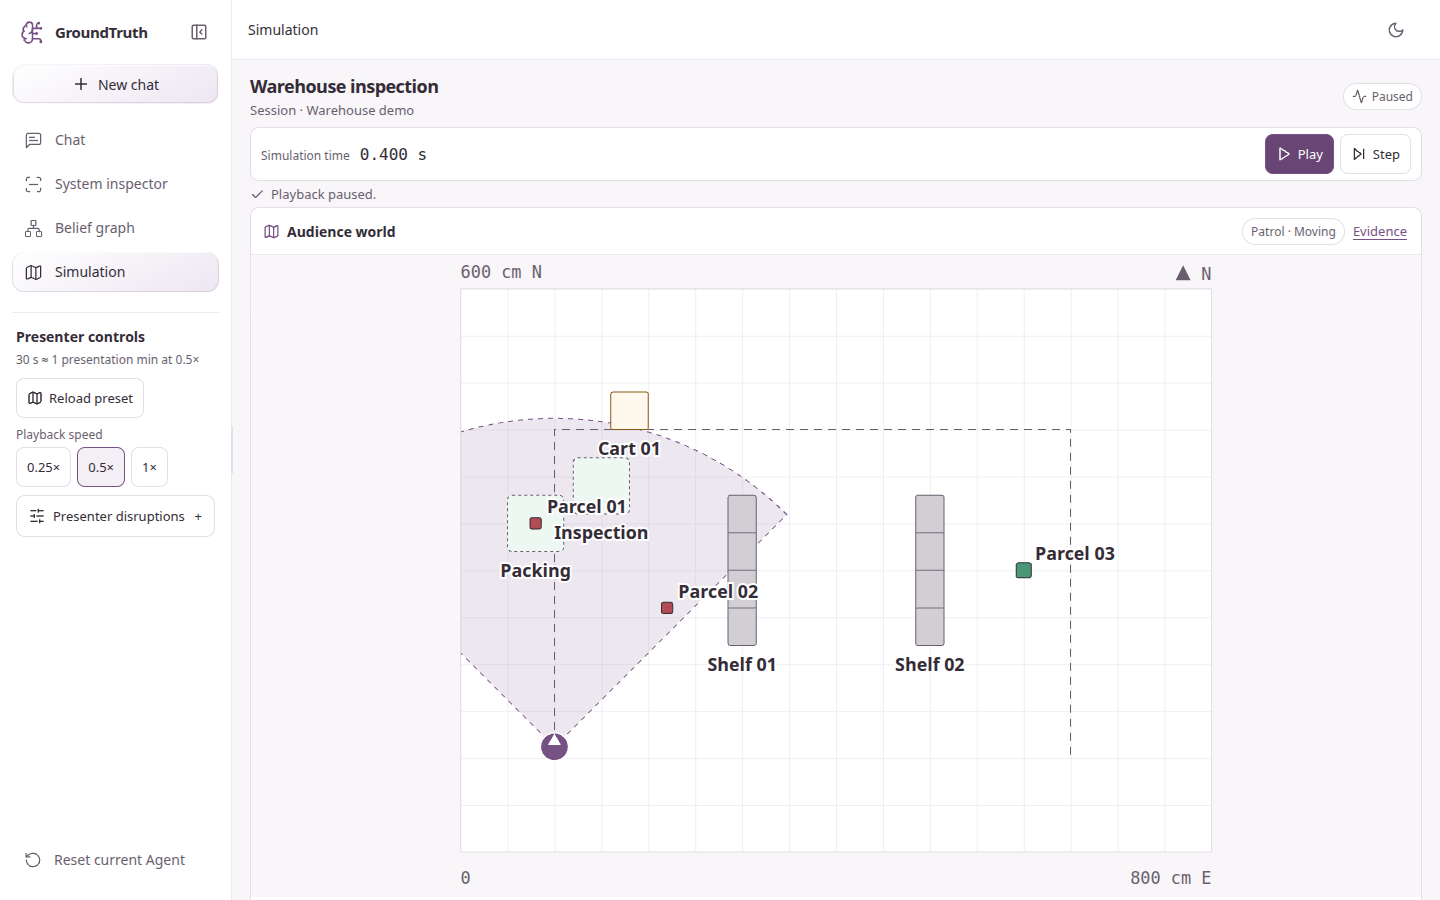
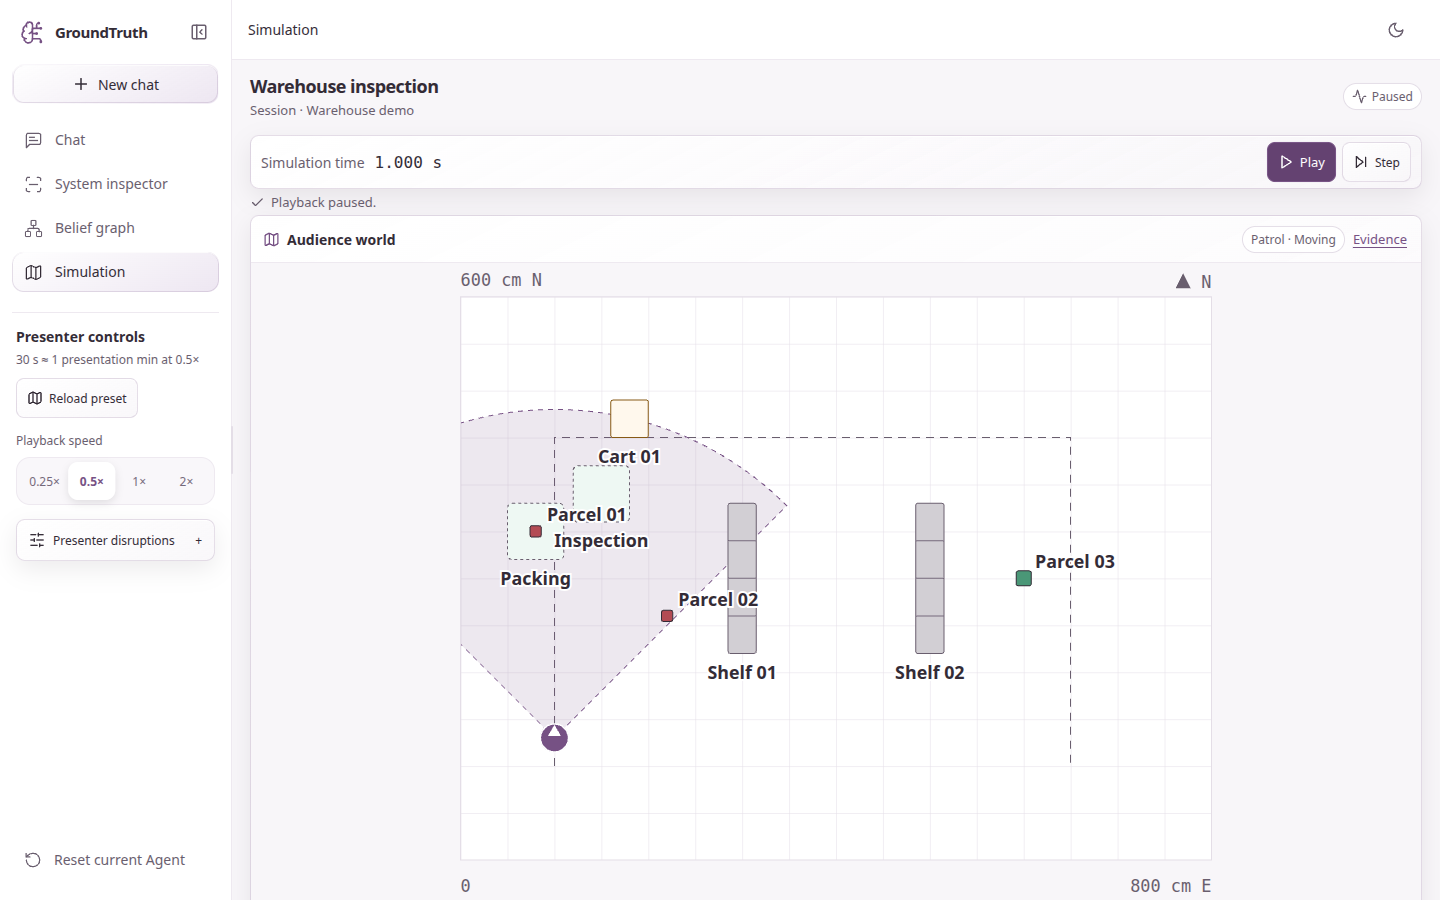
Add 2x playback and glass simulation controls

diff --git a/frontend/src/simulation-workspace.css b/frontend/src/simulation-workspace.css
@@ -180,3 +180,69 @@
   }
   .sim-disrupt option::checkmark { color: var(--accent); }
 }
+
+/* Match the moving glass selection used by the belief graph. */
+.sim-heading { margin-bottom: 16px; }
+.sim-clock { font-size: .875rem; }
+.sim-rate-field { width: 100%; gap: 8px; font-size: .75rem; }
+.sim-presenter { gap: 14px; }
+.sim-rates {
+  position: relative;
+  isolation: isolate;
+  display: grid;
+  grid-template-columns: repeat(4, minmax(0, 1fr));
+  width: 100%;
+  gap: 0;
+  padding: 4px;
+  border: 1px solid var(--line);
+  border-radius: 14px;
+  background: color-mix(in srgb, var(--surface-raised) 85%, transparent);
+  backdrop-filter: blur(16px) saturate(120%);
+  -webkit-backdrop-filter: blur(16px) saturate(120%);
+}
+.sim-rates::before {
+  position: absolute;
+  z-index: -1;
+  inset: 4px auto 4px 4px;
+  width: calc((100% - 8px) / 4);
+  border-radius: 10px;
+  background: linear-gradient(165deg, color-mix(in srgb, var(--surface) 85%, white), var(--surface));
+  box-shadow: inset 0 1px 0 rgb(255 255 255 / 55%), 0 3px 8px rgb(0 0 0 / 10%);
+  transform: translateX(calc(var(--selected-rate) * 100%));
+  transition: transform 250ms cubic-bezier(.22, 1, .36, 1);
+  content: "";
+}
+.sim-rates .sim-button, .sim-rates .sim-button[aria-pressed="true"] {
+  min-width: 0;
+  min-height: 38px;
+  padding: 6px 2px;
+  border: 0;
+  border-radius: 10px;
+  background: transparent;
+  color: var(--quiet);
+  font-size: .75rem;
+}
+.sim-rates .sim-button[aria-pressed="true"] { color: var(--accent); font-weight: 600; }
+:root[data-theme="dark"] .sim-rates { border-color: rgb(255 255 255 / 10%); background: rgb(255 255 255 / 3%); }
+:root[data-theme="dark"] .sim-rates::before {
+  background: linear-gradient(165deg, rgb(255 255 255 / 14%), rgb(255 255 255 / 4%));
+  box-shadow: inset 0 1px 0 rgb(255 255 255 / 20%), inset 0 -1px 0 rgb(255 255 255 / 5%), 0 3px 8px rgb(0 0 0 / 16%);
+}
+.sim-toolbar, .sim-panel, .sim-disrupt, .sim-presenter-inline {
+  border-color: var(--glass-border);
+  background: var(--glass-surface);
+  backdrop-filter: blur(18px) saturate(115%);
+  -webkit-backdrop-filter: blur(18px) saturate(115%);
+  box-shadow: inset 0 1px 0 var(--glass-highlight), 0 8px 24px var(--glass-shadow);
+}
+.sim-presenter > .sim-button, .sim-disrupt summary, .sim-actions .sim-button:not(.primary) {
+  font-size: .75rem;
+}
+.sim-presenter > .sim-button, .sim-actions .sim-button:not(.primary) {
+  border-color: var(--glass-border);
+  background: var(--glass-surface);
+  box-shadow: inset 0 1px 0 var(--glass-highlight);
+}
+.sim-presenter > .sim-button:hover:not(:disabled),
+.sim-actions .sim-button:not(.primary):hover:not(:disabled) { background: var(--glass-selected); }
+@media (prefers-reduced-motion: reduce) { .sim-rates::before { transition: none; } }

diff --git a/frontend/src/SimulationWorkspace.tsx b/frontend/src/SimulationWorkspace.tsx
@@ -10,7 +10,7 @@ import { useSimulation } from "./useSimulation";
 import WarehouseMap, { warehouseLabel } from "./WarehouseMap";
 import "./simulation-workspace.css";
 
-const rates = [0.25, 0.5, 1] as const;
+const rates = [0.25, 0.5, 1, 2] as const;
 const patrolLabels = {
   moving: "Moving", turning: "Turning", blocked: "Blocked",
   waiting_for_sensor: "Waiting for sensor", complete: "Patrol complete", stalled: "Stalled",
@@ -211,7 +211,7 @@ export default function SimulationWorkspace({ sessionId, chatName, presenterTarg
     </button>
     <div className="sim-rate-field" role="group" aria-label="Playback speed">
       <span>Playback speed</span>
-      <div className="sim-rates">
+      <div className="sim-rates" style={{ "--selected-rate": rates.indexOf(state?.playback_rate ?? 0.5) } as React.CSSProperties}>
         {rates.map((rate) => <button type="button" key={rate} className="sim-button"
           aria-pressed={(state?.playback_rate ?? 0.5) === rate}
           onClick={() => control("set_rate", rate)} disabled={!canAdjust}>{rate}×</button>)}
@@ -225,13 +225,14 @@ export default function SimulationWorkspace({ sessionId, chatName, presenterTarg
     <div className="sim-content">
       <div className="sim-heading">
         <div><h2>Warehouse inspection</h2><p>Session · {chatName}</p></div>
-        <div className={`sim-chip ${live && active ? "success" : !live || state?.state === "error" ? "warn" : ""}`} role="status">
+        {!(live && state?.state === "completed") && <div className={`sim-chip ${live && active ? "success" : !live || state?.state === "error" ? "warn" : ""}`} role="status">
           {connection === "disconnected" ? <WifiOff size={15} /> : active && live ? <Play size={13} /> : <Activity size={15} />}{status}
-        </div>
+        </div>}
       </div>
       <div className="sim-toolbar">
         <div className="sim-clock">
           <span>Simulation time</span>
+          {state?.state === "completed" && <span role="status">Run finished · Reload preset to start again</span>}
           <strong>{state?.sim_time_ms == null ? "—" : simTime(state.sim_time_ms)}</strong>
         </div>
         {playStep}
@@ -243,7 +244,7 @@ export default function SimulationWorkspace({ sessionId, chatName, presenterTarg
           {presenter}
         </details>}
       <div className="sim-feedback" role="status">
-        {pending ? <span>{pending}</span> : notice && <span className={notice.error ? "sim-warning" : ""}>
+        {pending ? <span>{pending}</span> : notice && (state?.state !== "completed" || notice.error) && <span className={notice.error ? "sim-warning" : ""}>
           {notice.error ? <CircleAlert size={15} /> : <Check size={15} />}{notice.text}
         </span>}
       </div>

diff --git a/frontend/src/simulationTypes.ts b/frontend/src/simulationTypes.ts
@@ -217,7 +217,7 @@ export type SimulationConfig = {
   "step_ms"?: number;
   "sensor_interval_ms"?: number;
   "duration_ms"?: number;
-  "playback_rate"?: 0.25 | 0.5 | 1.0;
+  "playback_rate"?: 0.25 | 0.5 | 1.0 | 2.0;
   "camera_fov_deg"?: number;
   "camera_range_cm"?: number;
   "lidar_range_cm"?: number;
@@ -228,12 +228,12 @@ export type SimulationConfig = {
 
 export type SimulationControl = {
   "action": "play" | "pause" | "step" | "reset" | "set_rate";
-  "playback_rate"?: 0.25 | 0.5 | 1.0 | null;
+  "playback_rate"?: 0.25 | 0.5 | 1.0 | 2.0 | null;
 };
 
 export type SimulationControlRequest = {
   "action": "play" | "pause" | "step" | "reset" | "set_rate";
-  "playback_rate"?: 0.25 | 0.5 | 1.0 | null;
+  "playback_rate"?: 0.25 | 0.5 | 1.0 | 2.0 | null;
   "expected": SimulationRunIdentity;
 };
 
@@ -303,7 +303,7 @@ export type SimulationStateResponse = {
   "snapshot_sequence": number | null;
   "sim_time_ms": number | null;
   "epoch_utc": string | null;
-  "playback_rate": 0.25 | 0.5 | 1.0;
+  "playback_rate": 0.25 | 0.5 | 1.0 | 2.0;
   "state": "pending" | "paused" | "running" | "completed" | "error";
   "error": string | null;
   "persistence_error": string | null;
@@ -319,7 +319,7 @@ export type SimulationStatus = {
   "epoch_utc": string;
   "sim_time_ms": number;
   "state": "paused" | "running" | "completed";
-  "playback_rate"?: 0.25 | 0.5 | 1.0;
+  "playback_rate"?: 0.25 | 0.5 | 1.0 | 2.0;
 };
 
 export type SpatialContext = {

diff --git a/frontend/src/simulationFixtures.ts b/frontend/src/simulationFixtures.ts
@@ -1321,6 +1321,14 @@ export const validSimulationFixtures = {
       }
     },
     {
+      "action": "set_rate",
+      "playback_rate": 2.0,
+      "expected": {
+        "run_id": "00000000-0000-0000-0000-000000000001",
+        "generation": 1
+      }
+    },
+    {
       "action": "step",
       "expected": {
         "run_id": "00000000-0000-0000-0000-000000000001",

diff --git a/tests/unit/contracts/test_simulation.py b/tests/unit/contracts/test_simulation.py
@@ -61,7 +61,7 @@ def test_shared_invalid_examples_rejected(case):
         getattr(simulation, case["contract"]).model_validate(case["payload"])
 
 
-@pytest.mark.parametrize("value", [float("nan"), float("inf"), -float("inf"), True, "0.5", 0, 2])
+@pytest.mark.parametrize("value", [float("nan"), float("inf"), -float("inf"), True, "0.5", 0, 3])
 def test_rate_rejection_across_config_status_and_control(value):
     for model, payload in [
         (SimulationConfig, {}),
@@ -95,11 +95,11 @@ def test_invalid_configuration_boundaries(field, value):
 
 def test_pacing_does_not_change_simulation_defaults():
     base = SimulationConfig().model_dump(exclude={"playback_rate"})
-    for rate, seconds in [(0.25, 120), (0.5, 60), (1.0, 30)]:
+    for rate, seconds in [(0.25, 120), (0.5, 60), (1.0, 30), (2.0, 15)]:
         config = SimulationConfig(playback_rate=rate)
         assert config.model_dump(exclude={"playback_rate"}) == base
         assert config.duration_ms / rate / 1000 == seconds
-        assert config.step_ms / rate == {0.25: 400, 0.5: 200, 1.0: 100}[rate]
+        assert config.step_ms / rate == {0.25: 400, 0.5: 200, 1.0: 100, 2.0: 50}[rate]
 
 
 @pytest.mark.parametrize(

diff --git a/src/web/simulation_clock.py b/src/web/simulation_clock.py
@@ -14,7 +14,7 @@ class SimulationClock:
     """Accumulate simulation milliseconds without losing unprocessed ticks."""
 
     def __init__(self, *, step_ms: int, rate: float, now: Callable[[], float] = monotonic):
-        if step_ms <= 0 or isinstance(rate, bool) or rate not in (0.25, 0.5, 1.0):
+        if step_ms <= 0 or isinstance(rate, bool) or rate not in (0.25, 0.5, 1.0, 2.0):
             raise ValueError("invalid simulation step or playback rate")
         self.step_ms = step_ms
         self.rate = rate
@@ -39,7 +39,7 @@ class SimulationClock:
         self.running = False
 
     def set_rate(self, rate: float) -> None:
-        if isinstance(rate, bool) or rate not in (0.25, 0.5, 1.0):
+        if isinstance(rate, bool) or rate not in (0.25, 0.5, 1.0, 2.0):
             raise ValueError("unsupported playback rate")
         self._account()
         self.rate = rate

diff --git a/tests/integration/test_patrol_integration.py b/tests/integration/test_patrol_integration.py
@@ -216,7 +216,7 @@ def test_playback_rate_independence():
     """Verify controller decisions are identical at equal simulation times across rates."""
     results_by_rate = {}
 
-    for rate in (0.25, 0.5, 1.0):
+    for rate in (0.25, 0.5, 1.0, 2.0):
         scene_data = deepcopy(DATA["valid"]["scenario"])
         scene_data["config"]["playback_rate"] = rate
         eng, sensors, scene = create_engine_and_sensors(scene_data)
@@ -247,7 +247,12 @@ def test_playback_rate_independence():
 
         results_by_rate[rate] = trace
 
-    assert results_by_rate[0.25] == results_by_rate[0.5] == results_by_rate[1.0]
+    assert (
+        results_by_rate[0.25]
+        == results_by_rate[0.5]
+        == results_by_rate[1.0]
+        == results_by_rate[2.0]
+    )
 
 
 def test_paired_engine_controller_checkpoint_resumes_pending_tick_once():

diff --git a/src/contracts/simulation.py b/src/contracts/simulation.py
@@ -28,7 +28,7 @@ Finite = Annotated[float, Field(allow_inf_nan=False, strict=True)]
 Positive = Annotated[Finite, Field(gt=0)]
 Identifier = Annotated[str, Field(min_length=1, pattern=r"^\S+$")]
 Direction = Literal["north", "east", "south", "west"]
-PlaybackRate = Literal[0.25, 0.5, 1.0]
+PlaybackRate = Literal[0.25, 0.5, 1.0, 2.0]
 
 
 class Contract(BaseModel):
@@ -55,7 +55,7 @@ class SimulationConfig(Contract):
     @classmethod
     def numeric_rate(cls, value: object) -> object:
         if isinstance(value, bool) or not isinstance(value, (int, float)):
-            raise ValueError("playback_rate must be numeric: 0.25, 0.5 or 1.0")
+            raise ValueError("playback_rate must be numeric: 0.25, 0.5, 1.0 or 2.0")
         return value
 
     @model_validator(mode="after")

diff --git a/tests/integration/test_simulation_api.py b/tests/integration/test_simulation_api.py
@@ -158,7 +158,7 @@ def test_http_lifecycle_rates_and_legacy_compatibility(api):
     assert paused["patrol"]["waypoint_index"] == 0
     assert send(BASE + "/load", original_request)[1] == paused
 
-    for rate in (0.25, 0.5, 1):
+    for rate in (0.25, 0.5, 1, 2, 1):
         code, changed, _ = control(send, paused, "set_rate", playback_rate=rate)
         assert code == 200
         assert changed["snapshot_sequence"] == paused["snapshot_sequence"]

diff --git a/tests/unit/test_simulation_clock.py b/tests/unit/test_simulation_clock.py
@@ -5,7 +5,7 @@ import pytest
 from src.web.simulation_clock import SimulationClock
 
 
-@pytest.mark.parametrize(("rate", "expected"), [(0.25, 2), (0.5, 5), (1.0, 10)])
+@pytest.mark.parametrize(("rate", "expected"), [(0.25, 2), (0.5, 5), (1.0, 10), (2.0, 20)])
 def test_rate_and_paused_time(rate, expected):
     now = [0.0]
     clock = SimulationClock(step_ms=100, rate=rate, now=lambda: now[0])

diff --git a/docs/phase-two/Simulation_Workspace.md b/docs/phase-two/Simulation_Workspace.md
@@ -30,7 +30,8 @@ GROUNDTRUTH_PROVIDER_MODE=offline uv run --locked python -m src.web.server
 Open [the local simulation route](http://127.0.0.1:8765/simulation). Select
 **Load preset**. The warehouse starts paused at zero. Press **Step** to advance
 100 simulation milliseconds or **Play** to watch the robot at the default 0.5×.
-A 30-second run takes about one wall-clock minute at that rate. **Reload preset**
+A 30-second run takes about one wall-clock minute at that rate, or 15 seconds
+at 2×. **Reload preset**
 starts a fresh run and restores the default rate. On desktop, the open left
 sidebar contains the preset, playback speed and disruption controls. With the sidebar closed
 or on a narrow screen, open **Presenter controls** above the map to reach

diff --git a/docs/phase-two/Shared_Simulation_Contracts.md b/docs/phase-two/Shared_Simulation_Contracts.md
@@ -51,7 +51,7 @@ No new runtime/development dependency is required.
 2. **Monotonic wall time:** future runtime scheduling clock. At default 0.5×,
    one simulation step nominally takes 200 wall-clock ms, an acquisition interval
    one wall-clock second, and the default demo about one minute excluding pauses.
-   Rates 0.25 / 0.5 / 1.0 are the only supported values. They do not change robot
+   Rates 0.25 / 0.5 / 1.0 / 2.0 are the only supported values. They do not change robot
    speed in cm/simulation-second or sensor/event/freshness simulation times.
 3. **Acquisition UTC:** `epoch_utc + sim_time_ms`, including while paused or replayed.
    `captured_at` and successful `observed_at` (or failure `reported_at`) must agree.
